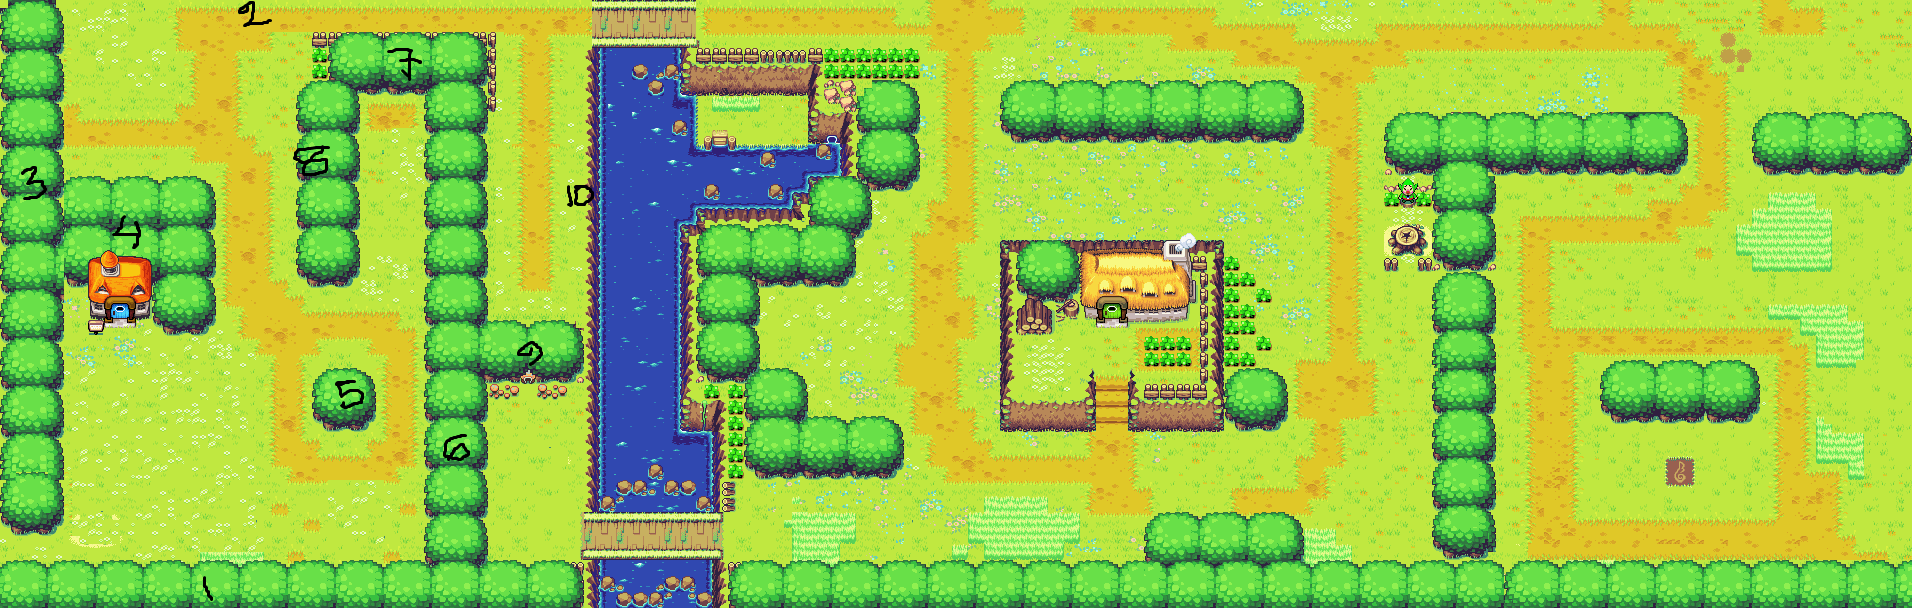
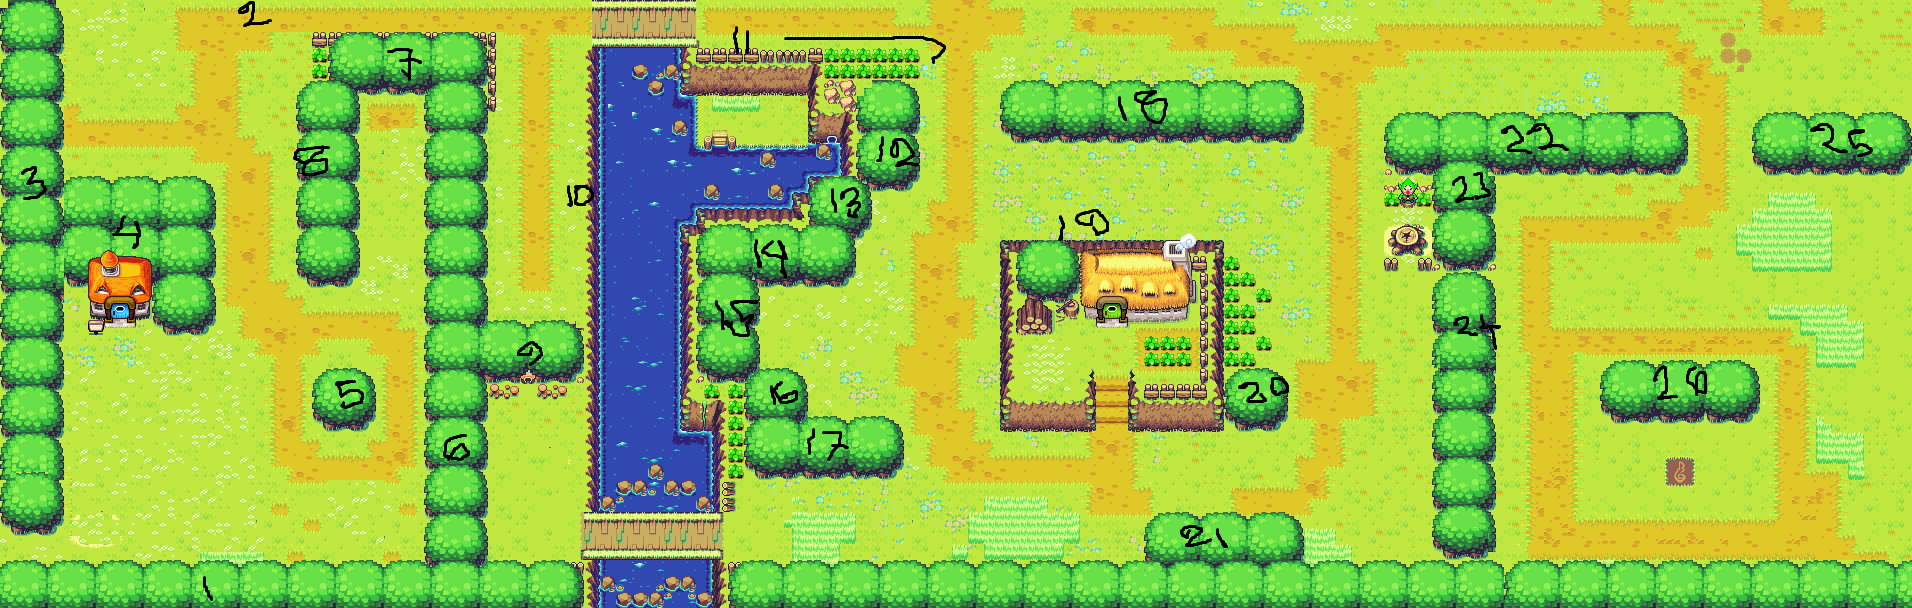
Implemented Packaging
Created different packages for different purpose.

diff --git a/core/src/Play/InsideStart.java b/core/src/Play/InsideStart.java
@@ -1,5 +1,7 @@
-package com.mygdx.game;
+package Play;
 
+import Menu.MenuScreen;
+import ObstacleDetection.*;
 import com.badlogic.gdx.Gdx;
 import com.badlogic.gdx.Input;
 import com.badlogic.gdx.Screen;
@@ -7,6 +9,7 @@ import com.badlogic.gdx.graphics.Texture;
 import com.badlogic.gdx.graphics.g2d.Animation;
 import com.badlogic.gdx.graphics.g2d.TextureRegion;
 import com.badlogic.gdx.utils.ScreenUtils;
+import com.mygdx.game.MainGame;
 
 public class InsideStart implements Screen {
     MainGame game;

diff --git a/core/src/com/mygdx/game/MainGame.java b/core/src/com/mygdx/game/MainGame.java
@@ -1,13 +1,12 @@
 package com.mygdx.game;
 
-import com.badlogic.gdx.ApplicationAdapter;
+import Menu.MenuScreen;
 import com.badlogic.gdx.Game;
 import com.badlogic.gdx.graphics.Texture;
 import com.badlogic.gdx.graphics.g2d.SpriteBatch;
-import com.badlogic.gdx.utils.ScreenUtils;
 
 public class MainGame extends Game {
-	SpriteBatch batch;
+	public SpriteBatch batch;
 	Texture img;
 	public static final int ScreenWidth = 1280;
 	public static final int ScreenHeight = 720;

diff --git a/core/src/Menu/MenuScreen.java b/core/src/Menu/MenuScreen.java
@@ -1,4 +1,4 @@
-package com.mygdx.game;
+package Menu;
 
 import com.badlogic.gdx.Gdx;
 import com.badlogic.gdx.Input;
@@ -6,8 +6,9 @@ import com.badlogic.gdx.Screen;
 import com.badlogic.gdx.audio.Music;
 import com.badlogic.gdx.graphics.Texture;
 import com.badlogic.gdx.utils.ScreenUtils;
-
-import java.security.Key;
+import Credit.CreditsScreen;
+import Play.InsideStart;
+import com.mygdx.game.MainGame;
 
 public class MenuScreen implements Screen {
 

diff --git a/core/src/Credit/CreditsScreen.java b/core/src/Credit/CreditsScreen.java
@@ -1,9 +1,11 @@
-package com.mygdx.game;
+package Credit;
 
+import Menu.MenuScreen;
 import com.badlogic.gdx.Gdx;
 import com.badlogic.gdx.Input;
 import com.badlogic.gdx.Screen;
 import com.badlogic.gdx.graphics.Texture;
+import com.mygdx.game.MainGame;
 
 public class CreditsScreen implements Screen {
     MainGame game;

diff --git a/core/src/ObstacleDetection/obstacle7.java b/core/src/ObstacleDetection/obstacle7.java
@@ -1,0 +1,8 @@
+package ObstacleDetection;
+
+public class obstacle7 {
+    public float limitX1=258;
+    public float limitX2=new obstacle6().limitX2;
+    public float limitY1=562;
+    public float limitY2=new obstacle6().limitY;
+}

diff --git a/core/src/ObstacleDetection/obstacle9.java b/core/src/ObstacleDetection/obstacle9.java
@@ -1,0 +1,8 @@
+package ObstacleDetection;
+
+public class obstacle9 {
+    public float limitY1=218;
+    public float limitY2=310;
+    public float limitX1=new obstacle6().limitX2-10;
+    public float limitX2=578;
+}

diff --git a/core/src/ObstacleDetection/obstacle4.java b/core/src/ObstacleDetection/obstacle4.java
@@ -1,0 +1,8 @@
+package ObstacleDetection;
+
+public class obstacle4 {
+    public float limitX1=new obstacle3().limitX;
+    public float limitX2=180;
+    public float limitY1=283;
+    public float limitY2=476;
+}

diff --git a/core/src/ObstacleDetection/obstacle10.java b/core/src/ObstacleDetection/obstacle10.java
@@ -1,0 +1,8 @@
+package ObstacleDetection;
+
+public class obstacle10 {
+    public float limitX1=546;
+    public float limitX2=560;
+    public float limitY1=76;
+    public float limitY2=626;
+}

diff --git a/core/src/ObstacleDetection/obstacle5.java b/core/src/ObstacleDetection/obstacle5.java
@@ -1,0 +1,8 @@
+package ObstacleDetection;
+
+public class obstacle5 {
+    public float limitX1=264;
+    public float limitX2=350;
+    public float limitY1=170;
+    public float limitY2=250;
+}

diff --git a/core/src/ObstacleDetection/obstacle8.java b/core/src/ObstacleDetection/obstacle8.java
@@ -1,0 +1,8 @@
+package ObstacleDetection;
+
+public class obstacle8 {
+    public float limitX1=250;
+    public float limitX2=338;
+    public float limitY1=338;
+    public float limitY2=582;
+}

diff --git a/core/src/ObstacleDetection/obstacle6.java b/core/src/ObstacleDetection/obstacle6.java
@@ -1,0 +1,7 @@
+package ObstacleDetection;
+
+public class obstacle6 {
+    public float limitX1=374;
+    public float limitX2=474;
+    public float limitY=646;
+}

diff --git a/core/src/ObstacleDetection/obstacle3.java b/core/src/ObstacleDetection/obstacle3.java
@@ -1,4 +1,4 @@
-package com.mygdx.game;
+package ObstacleDetection;
 
 public class obstacle3 {
     public float limitX=30;
